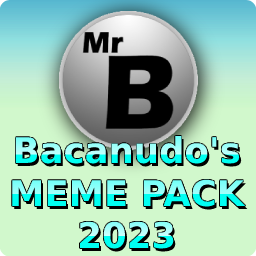
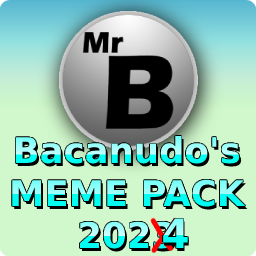
April 2024 update

Changed region(s): [[0.5625, 0.8438, 0.75, 1.0]]

diff --git a/README.md b/README.md
@@ -15,18 +15,6 @@ It is the recommended way of modding going forward.
 4. Install all the mods and/or modpacks you want!
 5. Click "Run with mods"!
 
-## Automatic Installation with PowerShell script (Old method)
-
-1. Download the [Downloader script](Downloader.ps1)
-   * Shortcut: Right click [this link](https://raw.githubusercontent.com/MrBacanudo/SkulHardModeMods/main/Downloader.ps1) and `Save Link As...` to download the script
-2. Run with PowerShell
-    * Right-clicking the file and selecting "Run with PowerShell" should work.
-    * No PowerShell in your machine? [Learn how to Download Powershell here](https://learn.microsoft.com/en-us/powershell/scripting/install/installing-powershell-on-windows?view=powershell-7.3)
-3. Select the game folder (you may need to minimize your windows to see the dialog)
-    * Default is `C:\Program Files (x86)\Steam\steamapps\common\Skul` or `C:\Program Files\Steam\steamapps\common\Skul`
-      * You can find this by right clicking Skul on Steam -> Properties -> Local Files -> Browse
-4. If everything runs correctly, that should be it!
-
 ## Manual Installation (Advanced)
 
 1. Download the external dependencies
@@ -38,10 +26,16 @@ It is the recommended way of modding going forward.
       * You can find this by right clicking Skul on Steam -> Properties -> Local Files -> Browse
     * BepInEx must be extracted to the game's root folder (i.e. you must see `winhttp.dll` and `doorstop_config.ini` in that folder)
     * The other two must be extracted inside the `2020.3.34` folder (the same folder!)
+    * The state of your Skul folder should then be:
+        1. Original Skul game files (we don't replace anything!)
+        2. `BepInEx` folder
+        3. `2020.3.34` folder, with about 79 files and no folders inside
+        4. `doorstop_config.ini` and `winhttp.dll` files
 3. Edit the new `doorstop_config.ini` file inside the game folder:
     * Change the last line from `dllSearchPathOverride=` to `dllSearchPathOverride=2020.3.34`
 4. Download the mods! Latest one here: https://github.com/MrBacanudo/SkulHardModeMods/releases/latest
 5. Put the mods you want into the `BepInEx/plugins` folder inside your game folder
+    * If the `plugins` folder doesn't exist, create it inside `BepInEx`
     * You're allowed to mix or just use what you want!
 
 Enjoy!

diff --git a/.modpacks/HardModeSandbox/README.md b/.modpacks/HardModeSandbox/README.md
@@ -16,3 +16,4 @@ Mods included:
 10. [Start with random picks, if you want](https://thunderstore.io/c/skul-the-hero-slayer/p/MrBacanudo/RandomStart/)
 11. [Pick any dark curse in the game](https://thunderstore.io/c/skul-the-hero-slayer/p/MrBacanudo/RerollCurses/)
 12. [Start with any skills you want](https://thunderstore.io/c/skul-the-hero-slayer/p/MrBacanudo/RerollsOnCastle/)
+13. [See real skill cooldowns](https://thunderstore.io/c/skul-the-hero-slayer/p/MrBacanudo/DisplayRealCooldowns/)
